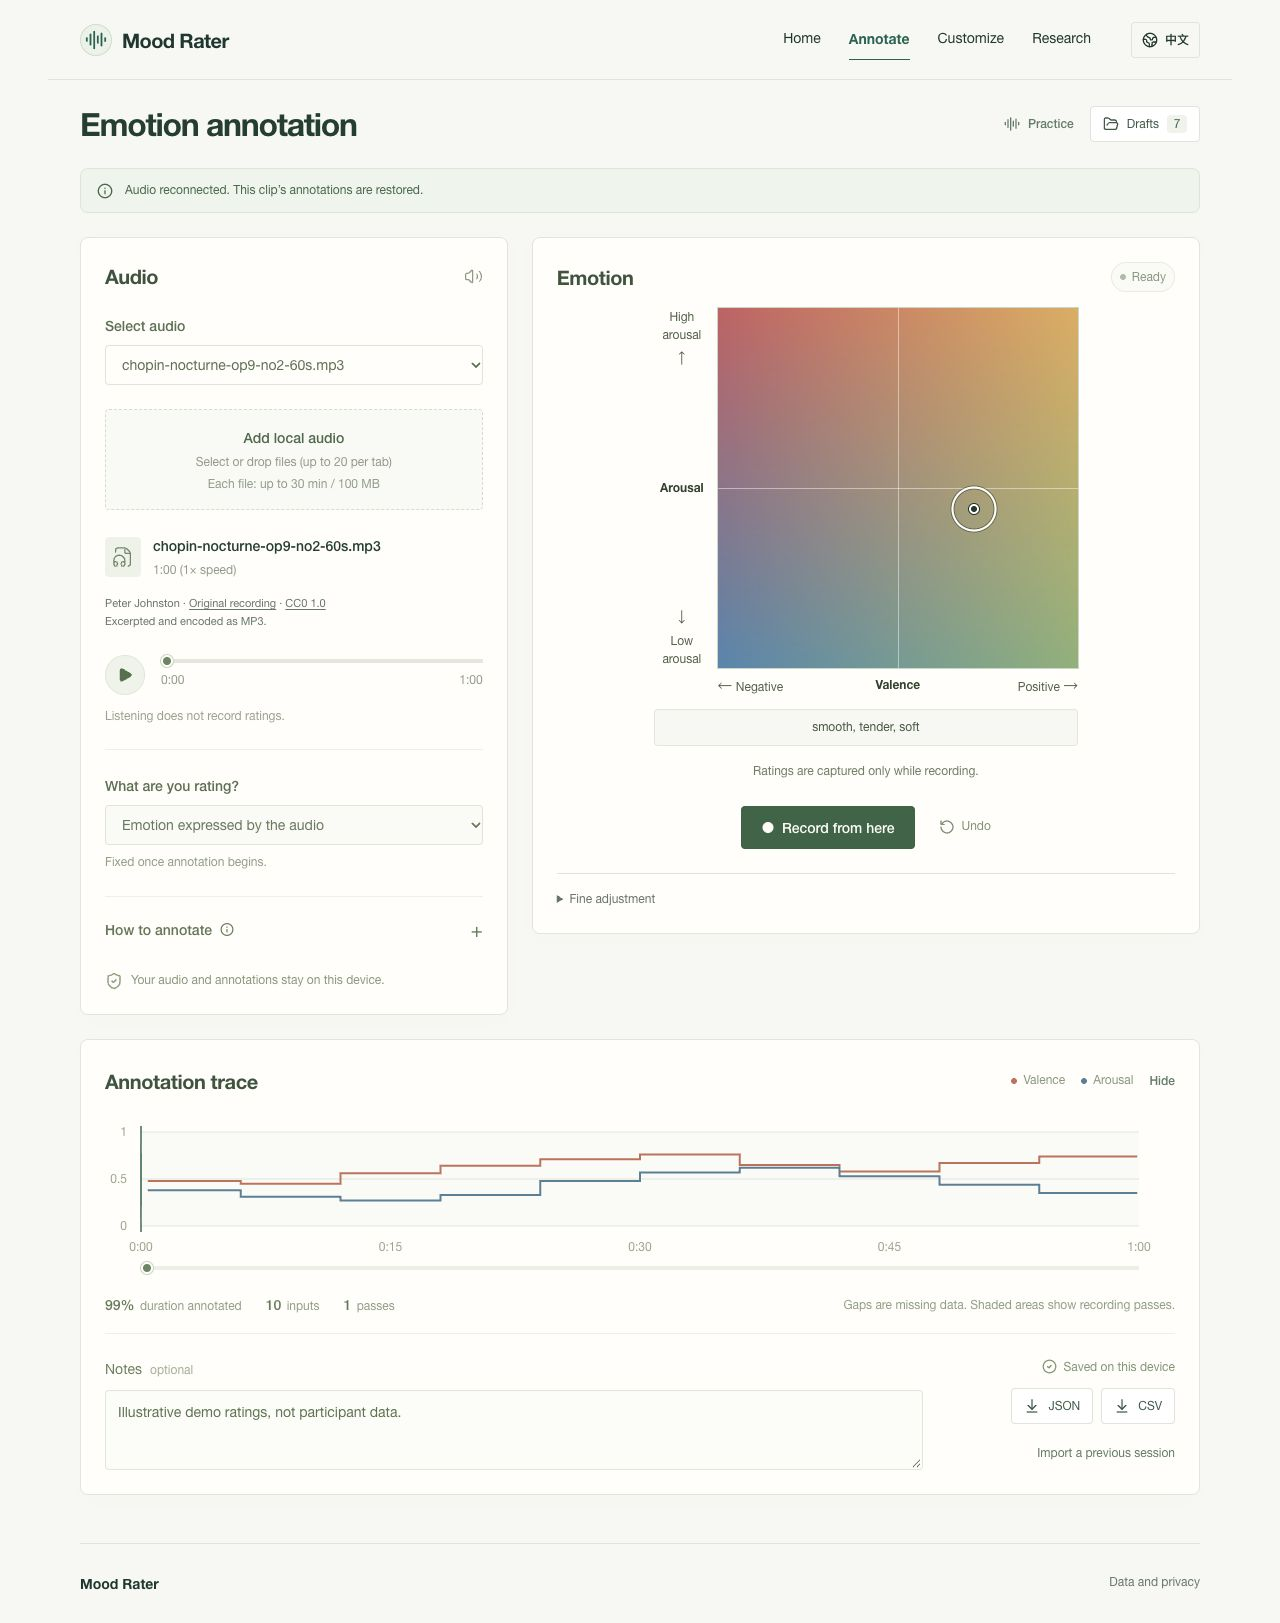
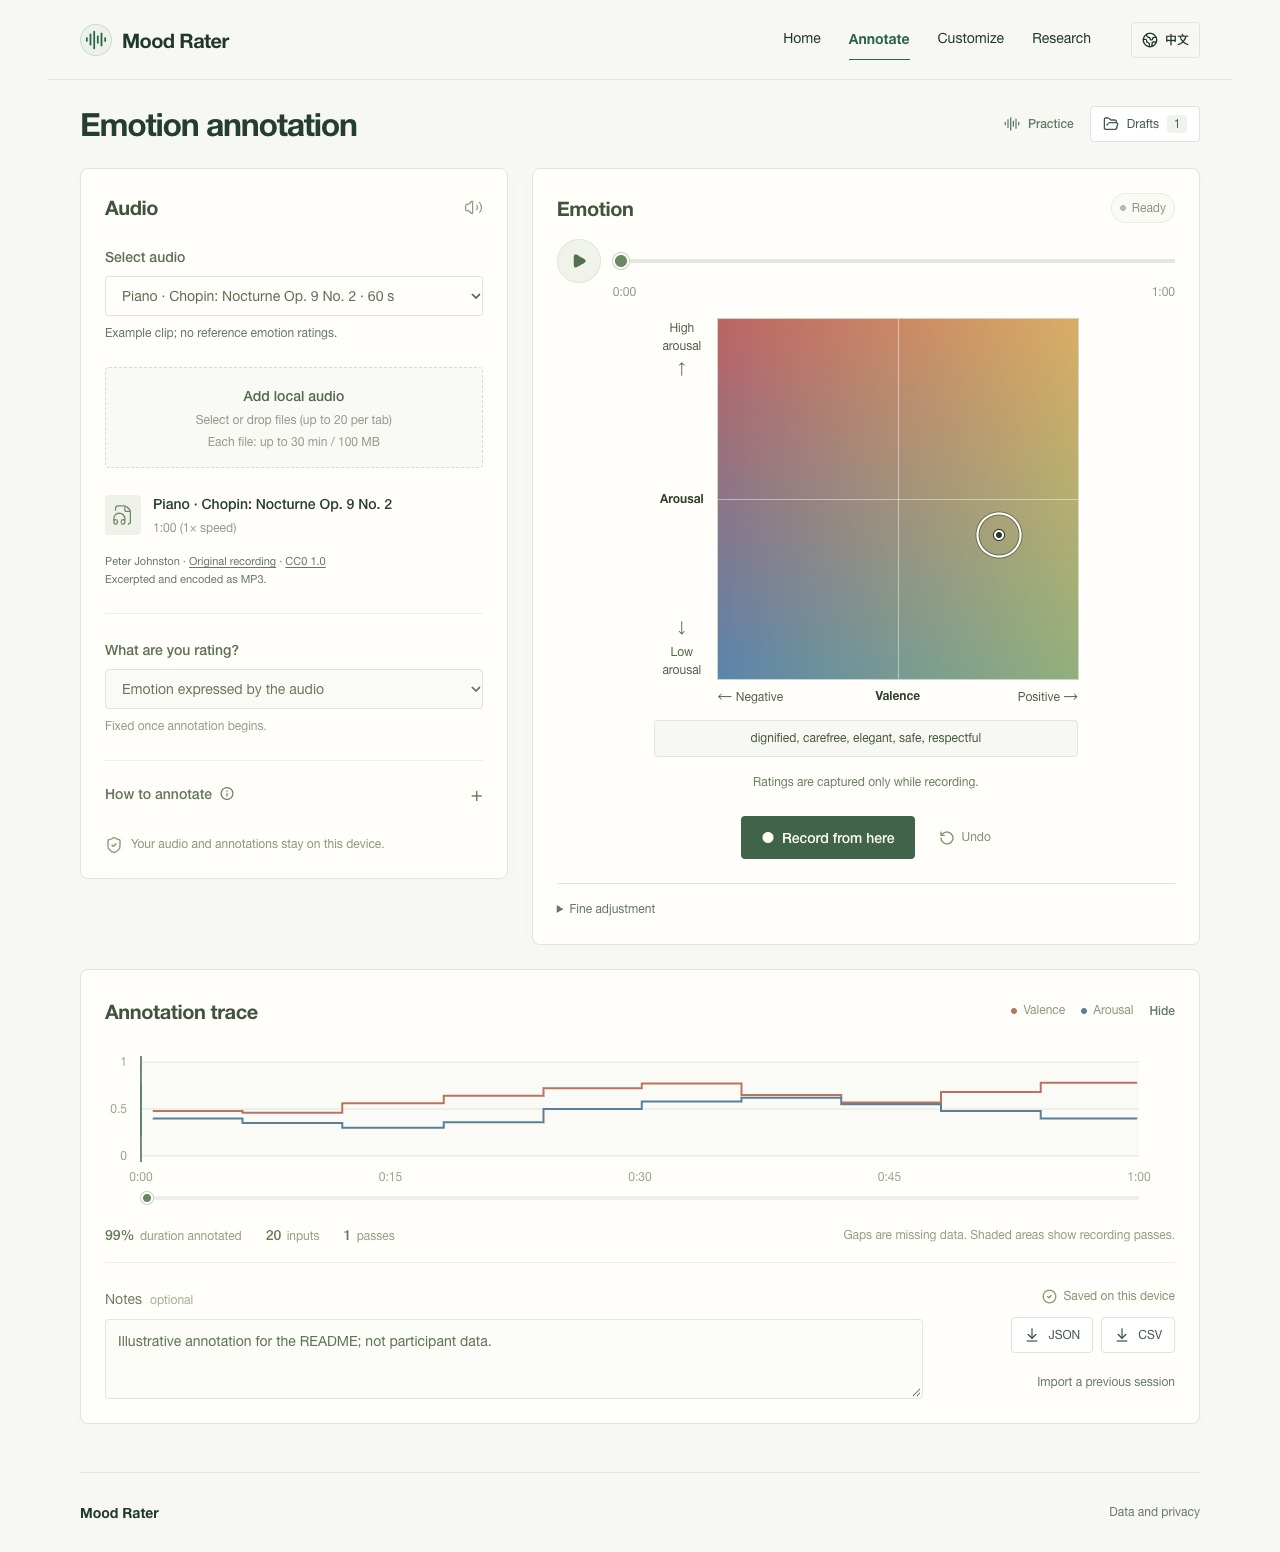
docs: refresh README screenshots and simplify introduction

diff --git a/README.md b/README.md
@@ -4,11 +4,9 @@
 
 A bilingual tool for annotating music and speech on a valence–arousal map. Listen, record your ratings over time, and export them for analysis. No account or database setup is needed for the default app.
 
-[Try the demo](https://rater.zaoan.today/annotate) | [Initial version](https://rater.zaoan.today/legacy/) | [简体中文](README.zh-CN.md) | [Documentation](docs/README.md) | [Contributing](CONTRIBUTING.md)
+[Try the demo](https://rater.zaoan.today/annotate) | [简体中文](README.zh-CN.md) | [Documentation](docs/README.md) | [Contributing](CONTRIBUTING.md)
 
 [![Mood Rater annotation workspace with audio controls, an emotion map and a rating timeline](docs/images/annotation-en.jpg)](https://rater.zaoan.today/annotate)
-
-*A local demonstration session. Ratings shown are illustrative, not participant data.*
 
 ## What you can do
 
@@ -83,3 +81,5 @@ General audio, interval editing and 10 Hz exports extend the original work. The 
 Bug reports, documentation, translations and focused improvements are welcome. [Read the contribution guide](CONTRIBUTING.md) or [open an issue](https://github.com/souflex56/mood-rater-demo/issues/new/choose).
 
 Project code is licensed under [MIT](LICENSE). Bundled recordings and third-party code retain their own licenses; see [third-party notices](THIRD_PARTY_NOTICES.md) before redistributing them.
+
+*[Initial version](https://rater.zaoan.today/legacy/)*

diff --git a/README.zh-CN.md b/README.zh-CN.md
@@ -4,11 +4,9 @@
 
 在聆听音乐或人声时，通过愉悦度–唤醒度坐标记录情绪随时间的变化，并导出数据用于分析。支持中英双语，默认使用无需账号或数据库配置。
 
-[在线体验](https://rater.zaoan.today/annotate) | [初始版本](https://rater.zaoan.today/legacy/) | [English](README.md) | [文档导航](docs/README.md) | [参与贡献](CONTRIBUTING.md#中文)
+[在线体验](https://rater.zaoan.today/annotate) | [English](README.md) | [文档导航](docs/README.md) | [参与贡献](CONTRIBUTING.md#中文)
 
 [![Mood Rater 中文标注工作区：音频控制、情绪坐标图与标注时间线](docs/images/annotation-zh-CN.jpg)](https://rater.zaoan.today/annotate)
-
-*本地演示会话，图中评分为示意数据，非参与者数据。*
 
 ## 可以做什么
 
@@ -83,3 +81,5 @@ Simin Yang, Courtney N. Reed, Elaine Chew, Mathieu Barthet. [*Examining Emotion 
 欢迎反馈问题、完善文档和翻译，或提交范围明确的改进。请先阅读[贡献指南](CONTRIBUTING.md#中文)，也可以[新建 Issue](https://github.com/souflex56/mood-rater-demo/issues/new/choose)。
 
 本项目代码采用 [MIT 许可证](LICENSE)。内置音频与第三方代码保留各自的许可；再分发前请查看[第三方许可说明](THIRD_PARTY_NOTICES.md)。
+
+*[初始版本](https://rater.zaoan.today/legacy/)*
